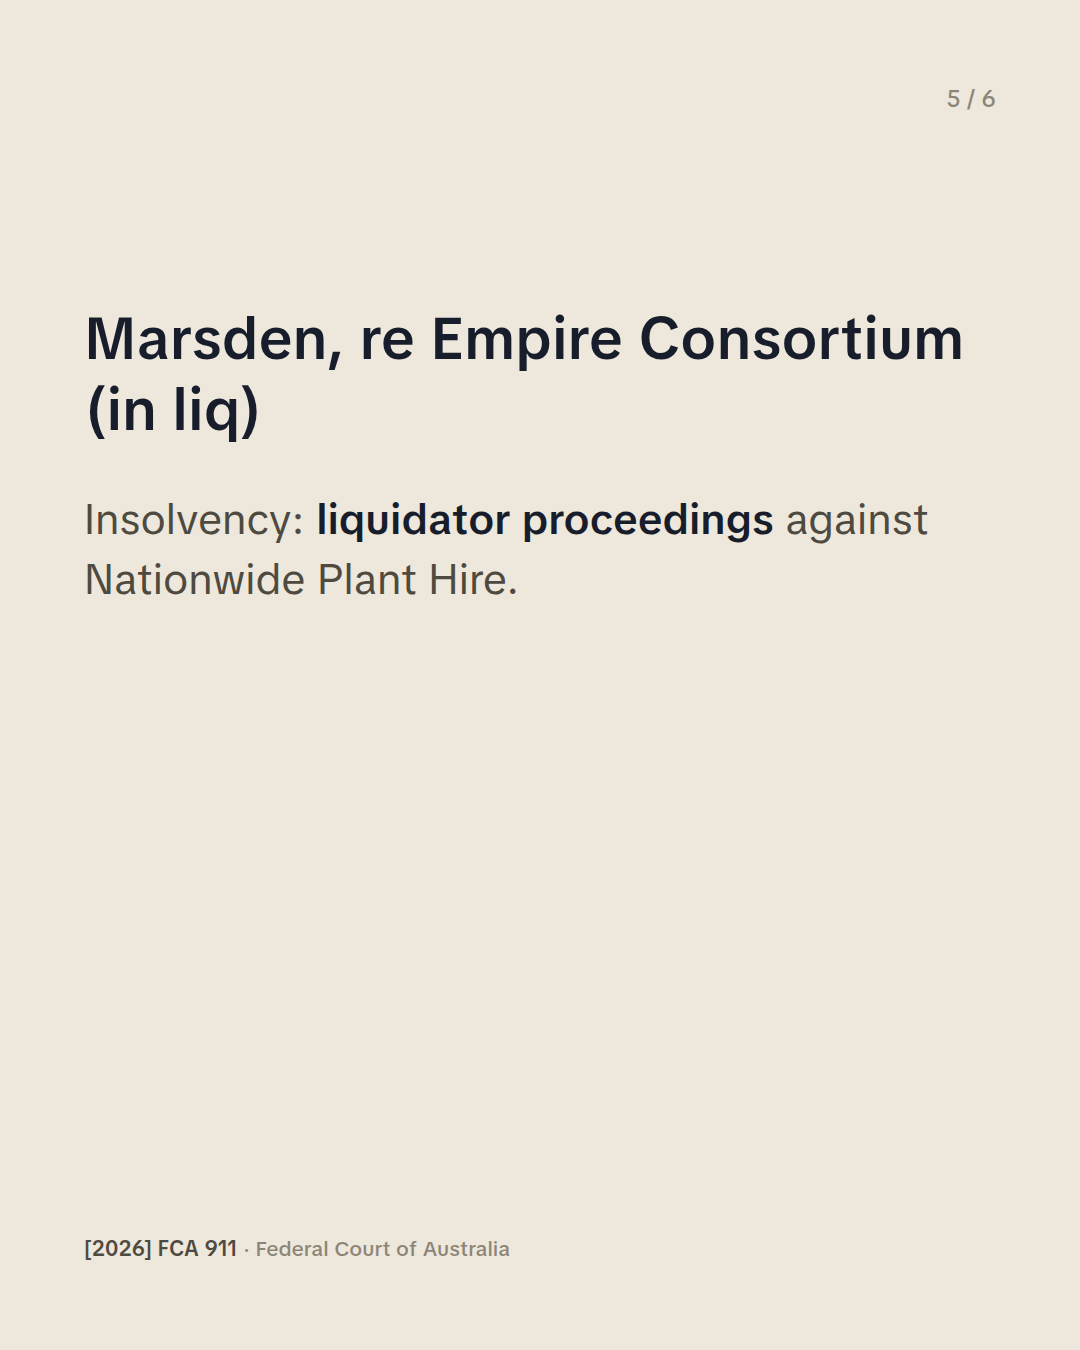
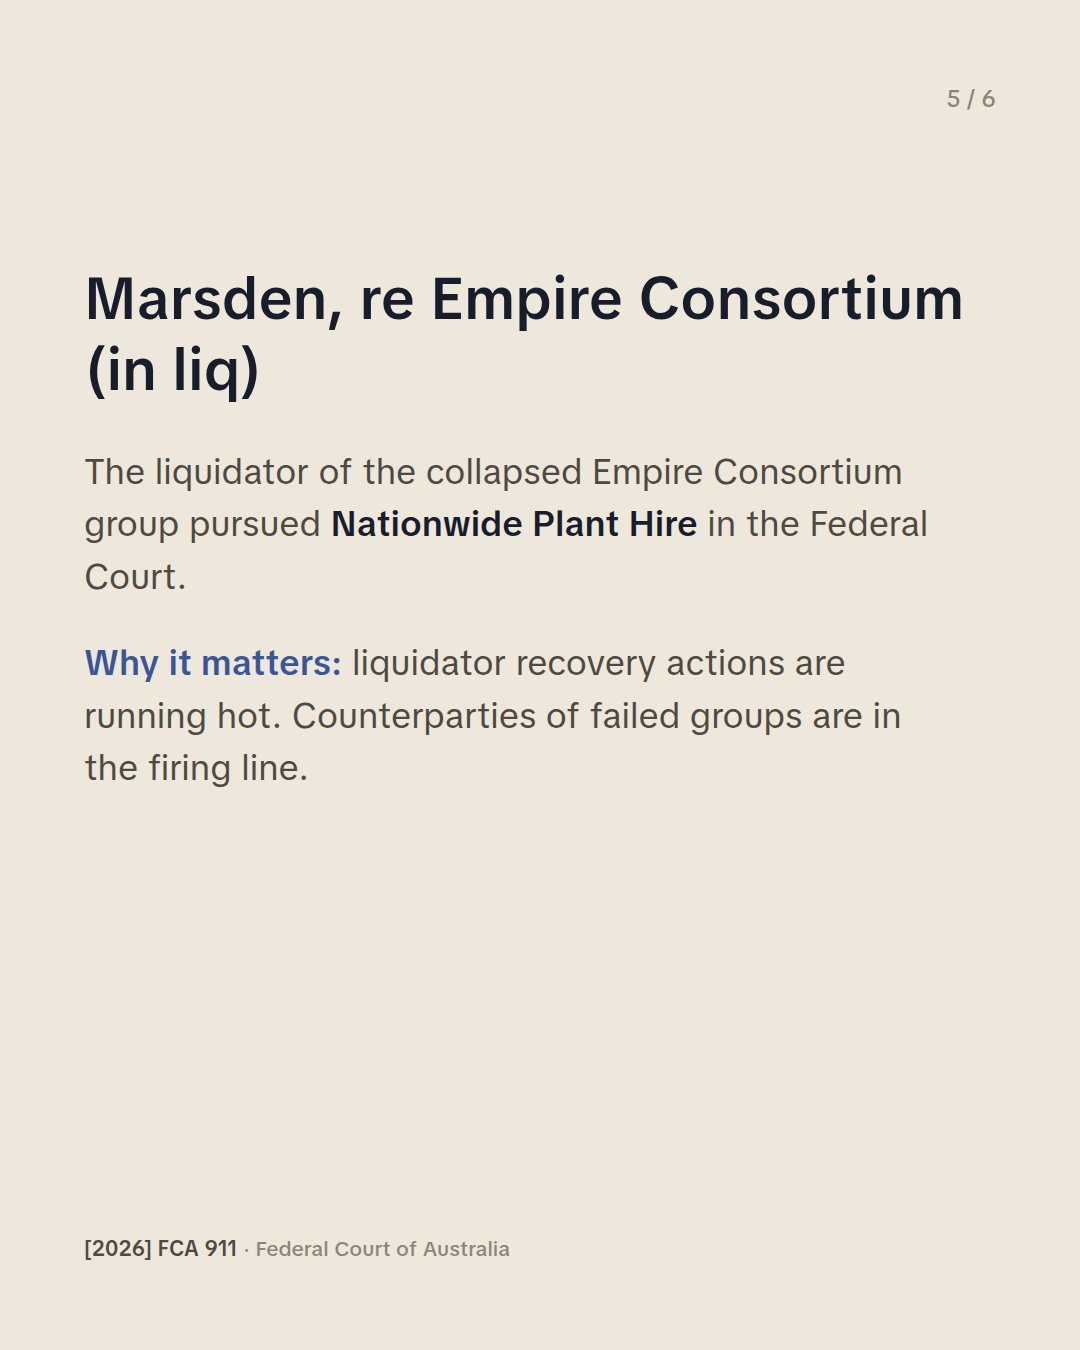
Enrich Day in Court case slides: what happened plus why it matters
Each case slide now carries a two-paragraph summary and a blue
'Why it matters' line. Smithbridge detail verified (s 11 COGSA
anti-arbitration point, S Derrington J); unverified outcome wording
removed from Smithbridge and Grofski slides.

Claude-Session: https://claude.ai/code/session_01JRjeUUcoRT5GxuTf3inkfN

Changed region(s): [[0.0611, 0.1867, 0.8556, 0.4356], [0.0611, 0.4667, 0.825, 0.5911], [0.3361, 0.1867, 0.8861, 0.28]]

diff --git a/tools/carousel/dayincourt.py b/tools/carousel/dayincourt.py
@@ -22,9 +22,14 @@ body.dark{background:#171D2B;color:#EDE7DC;}
 .title{margin-top:160px;font-size:96px;font-weight:600;line-height:1.12;}
 .cover-sub{margin-top:40px;font-size:38px;line-height:1.5;font-weight:400;color:#6E6858;max-width:820px;}
 .date{margin-top:20px;font-size:26px;font-weight:500;color:#8C8577;letter-spacing:.06em;}
-.case{margin-top:190px;font-size:58px;font-weight:600;line-height:1.22;max-width:900px;}
+.case{margin-top:150px;font-size:58px;font-weight:600;line-height:1.22;max-width:900px;}
 .case span{color:#3A5697;}
-.hold{margin-top:44px;font-size:42px;font-weight:400;line-height:1.45;color:#4E4A3F;max-width:880px;}
+.hold{margin-top:40px;font-size:35px;font-weight:400;line-height:1.5;color:#4E4A3F;max-width:880px;}
+.hold p+p{margin-top:26px;}
+.why{margin-top:34px;font-size:35px;line-height:1.5;font-weight:400;color:#4E4A3F;max-width:880px;}
+.why b{font-weight:600;color:#3A5697;}
+.dark .why{color:#A9B0C2;}
+.dark .why b{color:#6E86C9;}
 .hold b{font-weight:600;color:#171D2B;}
 .dark .hold{color:#A9B0C2;}
 .dark .hold b{color:#EDE7DC;}
@@ -50,30 +55,36 @@ write("docket-1", f"""<div class="page">
 
 cases = [
  ("White Oak <span>v</span> Insurance Australia",
-  'A &ldquo;without prejudice&rdquo; label alone <b>doesn&rsquo;t create privilege</b>. Genuine negotiation does.',
+  '<p>Greensill fallout. The insurer demanded twelve messages and a draft term sheet created while the parties circled a settlement.</p><p>Held: chat about a &ldquo;general approach&rdquo;, with <b>no element of compromise</b>, is not a negotiation. No privilege.</p>',
+  '<b>Why it matters:</b> a &ldquo;without prejudice&rdquo; label alone protects nothing. The negotiation has to be real.',
   '<b>[2026] FCA 769</b> &middot; Federal Court of Australia &middot; Thawley J'),
  ("Elvin <span>v</span> Fair Work Ombudsman",
-  'Underpayment appeal <b>allowed in part</b>. Is the FWO a creditor bound by a DOCA? Now a live question.',
+  '<p>Massage therapists underpaid. An individual personally on the hook. Then the employer struck a deed of company arrangement with its creditors.</p><p>The Full Court allowed the appeal <b>in part</b> and aired a live question: is the FWO a creditor bound by a DOCA?</p>',
+  '<b>Why it matters:</b> corporate rescue does not switch off workplace risk, especially personal liability.',
   '<b>[2026] FCAFC 92</b> &middot; Full Court of the Federal Court'),
  ("Smithbridge Guam <span>v</span> Swire Shipping",
-  '<b>Anti-suit injunction</b> granted in a carriage-of-goods dispute.',
-  '<b>[2026] FCA 884</b> &middot; Federal Court of Australia &middot; admiralty'),
+  '<p>A cargo dispute was headed for arbitration. Smithbridge asked the Court to stop it, arguing the <b>Carriage of Goods by Sea Act</b> rendered the arbitration clause in the booking note ineffective.</p>',
+  '<b>Why it matters:</b> Australian cargo law can trump arbitration agreements. Check s 11 before you draft.',
+  '<b>[2026] FCA 884</b> &middot; Federal Court of Australia &middot; S Derrington J'),
  ("Marsden, re Empire Consortium (in&nbsp;liq)",
-  'Insolvency: <b>liquidator proceedings</b> against Nationwide Plant Hire.',
+  '<p>The liquidator of the collapsed Empire Consortium group pursued <b>Nationwide Plant Hire</b> in the Federal Court.</p>',
+  '<b>Why it matters:</b> liquidator recovery actions are running hot. Counterparties of failed groups are in the firing line.',
   '<b>[2026] FCA 911</b> &middot; Federal Court of Australia'),
 ]
-for i,(c,h,m) in enumerate(cases, start=2):
+for i,(c,h,w,m) in enumerate(cases, start=2):
     write(f"docket-{i}", f"""<div class="page">
   <div class="top"><div class="pg">{i} / {N}</div></div>
   <div class="case">{c}</div>
   <div class="hold">{h}</div>
+  <div class="why">{w}</div>
   <div class="bottom"><div class="cite">{m}</div></div>
 </div>""")
 
 write(f"docket-{N}", f"""<body class="dark"><div class="page">
   <div class="top"><div class="pg">{N} / {N}</div></div>
   <div class="case">Grofski <span>v</span> Peabody Energy</div>
-  <div class="hold">Leave to appeal <b>refused</b> in an employment dispute.<br><br>And the High Court? Winter recess. Next judgments expected from August.</div>
+  <div class="hold"><p>A leave-to-appeal fight in an employment dispute with the coal miner&rsquo;s operator.</p><p>Most appeals die at the leave gate. Getting past it is half the battle.</p></div>
+  <div class="why"><b>High Court watch:</b> winter recess. Next judgments expected from August.</div>
   <div class="bottom"><div><div class="cite"><b>[2026] FCA 921</b> &middot; Federal Court of Australia</div>
   <div class="note">General information only, not legal advice. Check details against the full judgments.</div></div></div>
 </div></body>""")
